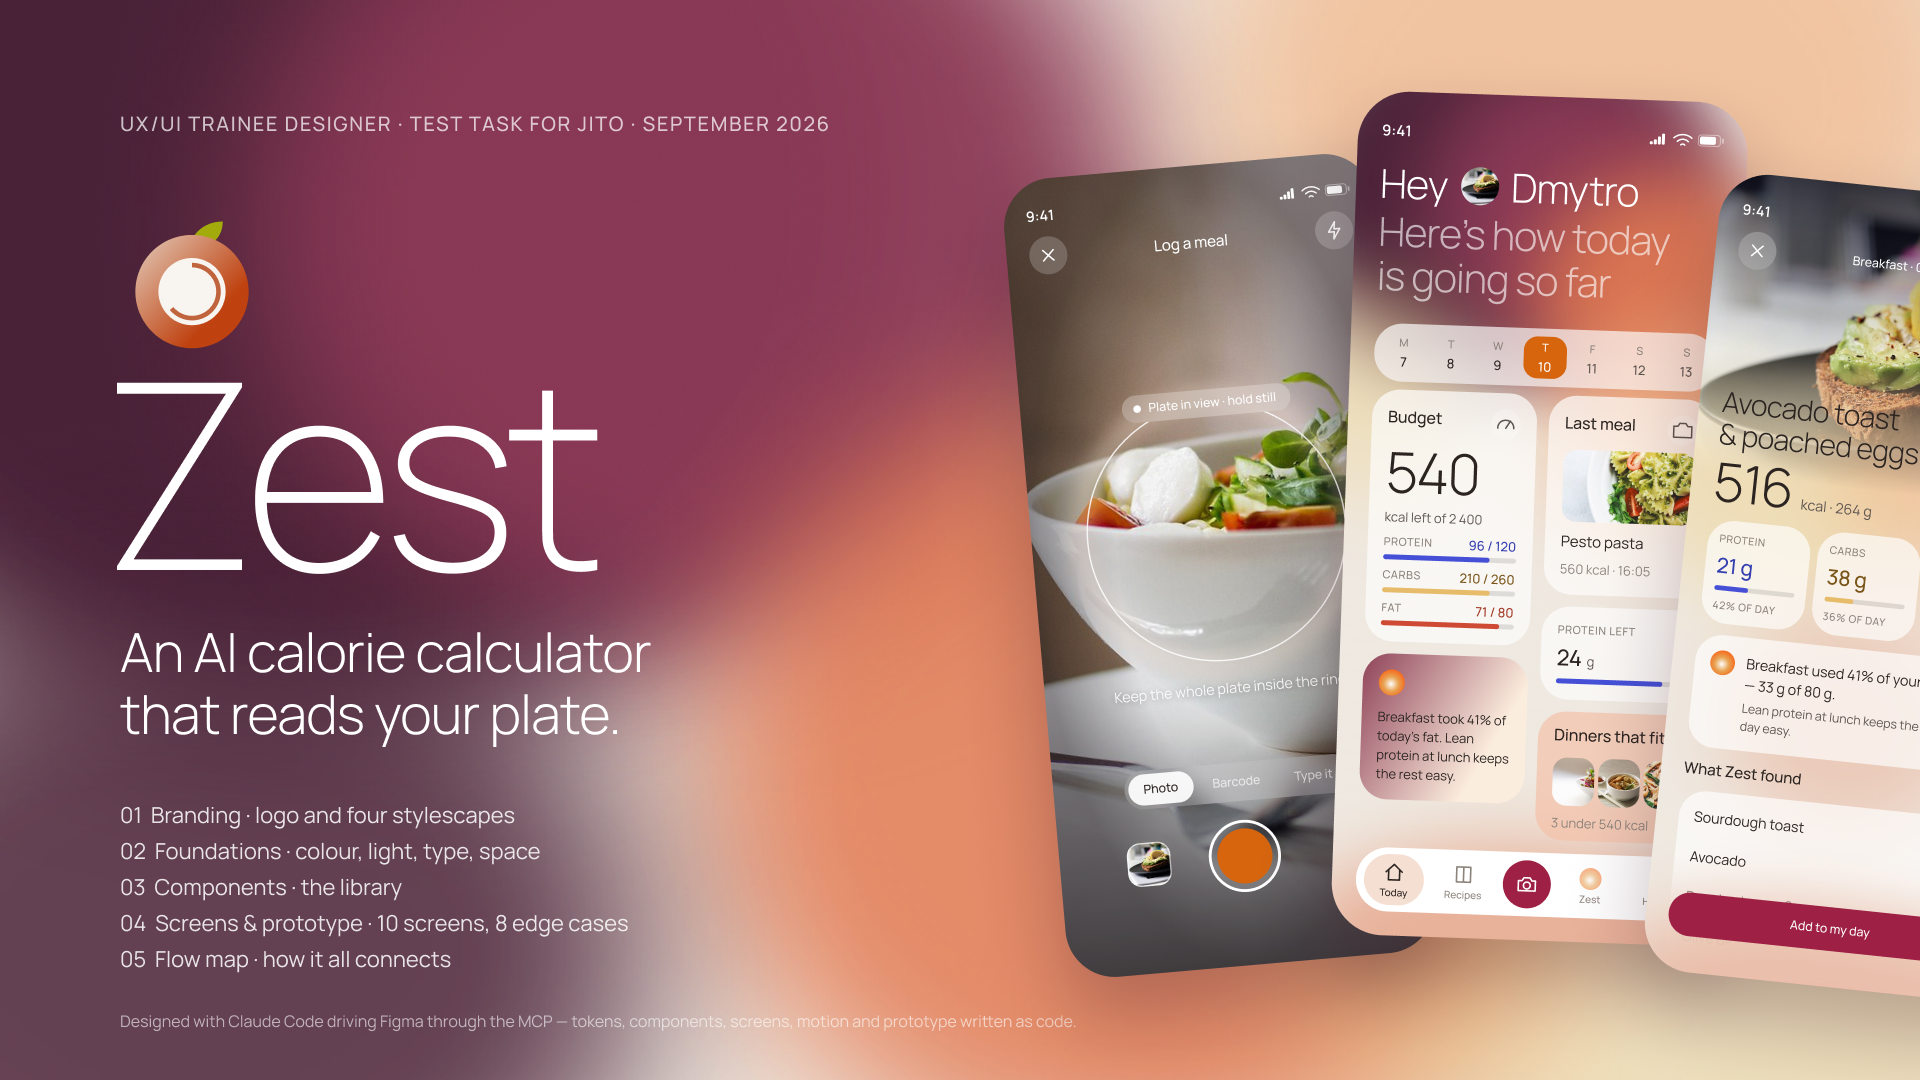
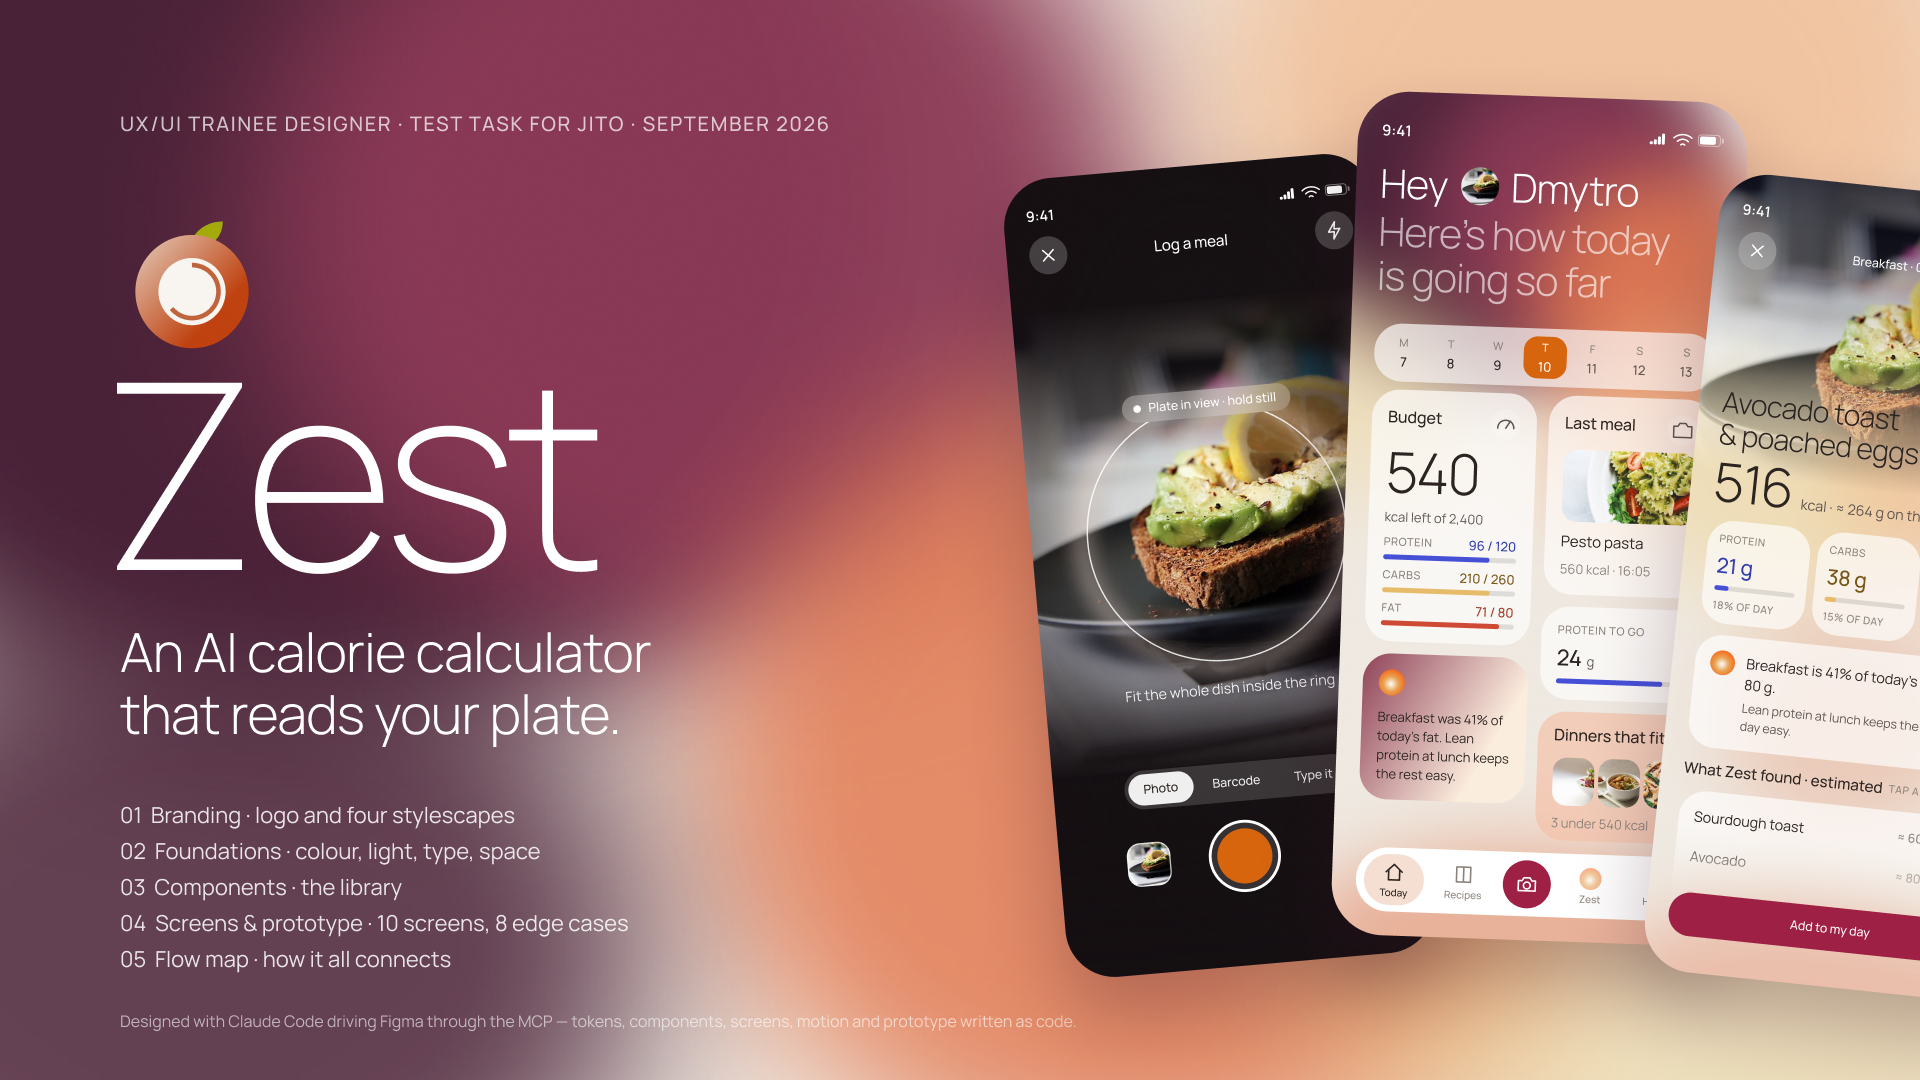
design: fix everything the review marked critical or high
One dish from Capture to Result; Result percentages computed from Today's targets
(protein 18 %, carbs 15 %, fat 41 %) with bars to match on every copy of the screen;
weights marked as estimates with kcal units; one way to edit a found item, opening the
correction sheet; Recipe detail states the fat trade-off and splits planning from
logging; a new Today state confirms the meal with Undo; opaque veils under sticky bars;
neutral wording; Welcome proof points no longer look like buttons; a camera-permission
edge case. docs/REVIEW-FIXES.md maps each point to its fix.

Claude-Session: https://claude.ai/code/session_01FDPnJdAVQFe1ai4QzDTio4

diff --git a/docs/REVIEW-FIXES.md b/docs/REVIEW-FIXES.md
@@ -1,0 +1,46 @@
+# Review — what was fixed
+
+A reviewer scored the nine static screens **7.8 / 10** ("strong Trainee — would invite to
+interview") and listed what must change before a client sees it. Everything on the
+"fix first" list and every high-severity point is addressed below.
+
+## Critical
+
+| Issue | Fix |
+|---|---|
+| Capture showed a salad, Analysing and Result an avocado toast | Capture now shows the same toast, framed so the whole dish sits inside the ring; the hint says "Fit the whole dish inside the ring". |
+| Result percentages disagreed with Today's targets (42 % and 36 %) | Recomputed from the same targets as Today — protein 21 / 120 g = **18 %**, carbs 38 / 260 g = **15 %**, fat 33 / 80 g = 41 % — and the bars redrawn to match, on the screen and in every copy of it (stylescapes, cover, flow map). |
+
+## High
+
+| Issue | Fix |
+|---|---|
+| Miso salmon hid that it takes fat past the target (71 + 14 = 85 g > 80 g) | *Why this fits you* now states the trade-off and a way out: "Trade-off: 14 g fat takes today 5 g past 80 g. Halve the sesame oil to stay inside." |
+| Recognised weights looked exact | Every detected weight is "≈"; the list is titled "What Zest found · estimated"; the total reads "≈ 264 g on the plate"; Analysing says "estimating each portion · about 2 s". |
+| Found list had no units for calories | "≈ 60 g · 160 kcal" on every line. |
+| Editing a found item wasn't shown; pencil and "tap to adjust" overlapped | The pencil is gone — the lines are the one way to edit. Tapping a line opens the correction sheet (E08), where the portion is changed and Zest learns from it. |
+| Sticky buttons covered content | The veils under the bottom buttons and the nav are opaque where the bar sits. |
+| Planning a meal and logging it were one action ("Cook this · logs 480 kcal") | Two actions: **Start cooking** and **Plan for dinner · 1 serving**. Ask Zest's chip is "Plan it for dinner". |
+| Nothing happened after *Add to my day* | New screen **S11 · Today — meal added**: "Added to breakfast · 516 kcal · 540 kcal left of 2,400 · Undo". |
+
+## Medium and low
+
+| Issue | Fix |
+|---|---|
+| Judgemental wording — *took*, *used … budget*, *owe* | "Breakfast was / is 41 % of today's fat", "38 g protein covers the 24 g still to go". |
+| Zest ignored the protein still to go | "That leaves 120 kcal and 10 g protein to go — a Greek yoghurt covers both." |
+| Welcome chips looked like buttons; "No verdicts" too abstract; login looked like a caption | A plain list with dots; "Every estimate is editable", "No food shaming"; "I already have an account · **Log in**" as a real link. |
+| Low-contrast text on light areas | Welcome's lower half, the Capture modes and the pending Analysing row moved to readable ink / 90 % white. |
+| Number formatting | "2,400", "1,860" everywhere. |
+| Calendar bars had no scale; two different "Today"s on History | "Bar length = share of the day's 2,400 kcal. A clay bar means the day went over."; the button is "Back to today", the badge stays a status. |
+| Recipes copy | "Every recipe fits both targets." |
+| Why single out protein on Today | The card is "Protein to go" — protein is the person's goal (120 g a day), which is also what Recipes ranks by. |
+| No permission / failure states | New edge case **E09 · Camera access is off**, alongside the eight others (no plate, two dishes, too dark, offline, unknown barcode, over budget, first day, correction). |
+
+## Not changed, on purpose
+
+- **The orange shutter vs the burgundy button.** Burgundy commits; ember is state and the
+  shutter — the capture button is where logging *starts*, not where it is committed. The
+  rule is written in the design system.
+- **Onboarding goals, allergies, recipe search, sorting, saved state on cards, cooking
+  mode, chat history** — real, but outside the two user stories in the brief.

diff --git a/README.md b/README.md
@@ -83,9 +83,9 @@ status bar at 0, navigation at 59, bottom bar 24 from the edge.
 |---|---|---|
 | 1 | Branding / stylescapes | Figma page `01 · Branding` — logo exploration, the main stylescape **Stylescape · Zest** (a dense collage built on one idea: the plate, the lens, the orb and the day are all circles), and four supporting 4000 × 1000 stylescapes: **Where it comes from** (the sources: peel, light, colours sampled from a real plate, photography), **Natural light** (the brand), **The plate is data** (the product), **No verdicts** (the voice). Exports in [`01-branding/`](01-branding/) |
 | 2 | Design system | Figma pages `02 · Foundations` and `03 · Components` |
-| 3 | Key screens & flows | Figma page `05 · Flow map` ([`03-screens/00-flow-map.png`](03-screens/00-flow-map.png)) and page `04 · Screens & Prototype` — 10 happy-path screens and 8 edge cases, ~60 prototype links, 9 flows (the full journey + one per edge case). Exports in [`03-screens/`](03-screens/) and [`04-edge-cases/`](04-edge-cases/) |
+| 3 | Key screens & flows | Figma page `05 · Flow map` ([`03-screens/00-flow-map.png`](03-screens/00-flow-map.png)) and page `04 · Screens & Prototype` — 11 happy-path screens and 9 edge cases, ~80 prototype links, 10 flows (the full journey + one per edge case). Exports in [`03-screens/`](03-screens/) and [`04-edge-cases/`](04-edge-cases/) |
 
-See [`links.md`](links.md) for the Figma link and the video walkthrough; the video script is in [`docs/VIDEO-SCRIPT.md`](docs/VIDEO-SCRIPT.md).
+See [`links.md`](links.md) for the Figma link and the video walkthrough, [`docs/REVIEW-FIXES.md`](docs/REVIEW-FIXES.md) for what changed after review; the video script is in [`docs/VIDEO-SCRIPT.md`](docs/VIDEO-SCRIPT.md).
 
 ### Screens
 
@@ -114,7 +114,7 @@ Today ──┬── week strip ───────▶ History
 ```
 
 The camera in the nav always opens Capture. Every burgundy button commits something and
-returns to Today, where it lands. Nothing on a screen duplicates a control that already
+returns to Today, where it lands — and Today says so ("Added to breakfast · 516 kcal · Undo"). Nothing on a screen duplicates a control that already
 lives in the navigation.
 
 ### Motion — only where the AI is working
@@ -139,9 +139,9 @@ the bead says it is waiting.
 
 ### Edge cases
 
-Eight screens for the moments a happy path never shows — no plate in the photo, two dishes
+Nine screens for the moments a happy path never shows — no plate in the photo, two dishes
 that look alike, a dark kitchen, no network, an unknown barcode, a day over budget, the
-first empty day, a corrected estimate. Each keeps the rules: fact first, no verdicts, one
+first empty day, a corrected estimate, the camera turned off. Each keeps the rules: fact first, no verdicts, one
 way forward, nothing lost. See [`04-edge-cases/`](04-edge-cases/).
 
 ### Design system
@@ -165,7 +165,7 @@ Three rules, and they are structural rather than stylistic:
 Rule 3 has a visible consequence: **there is no error red anywhere in the nutrition data.**
 Going over a target is stated as a fact in the brand's own clay tone.
 
-> "Breakfast used 41% of your fat budget — 33 g of 80 g.
+> "Breakfast is 41% of today's fat — 33 g of 80 g.
 > Lean protein at lunch keeps the rest of the day easy."
 
 ---

diff --git a/docs/VIDEO-SCRIPT.md b/docs/VIDEO-SCRIPT.md
@@ -21,6 +21,12 @@ explain the ideas, so each part ends on the decision behind it.
 > three marks; the fruit with an open ring won, because **the opening is the part of the
 > day that's left** — the logo shows state, not just identity.
 
+**Stylescape · Zest — the main one.**
+> This is the idea everything else starts from: a collage built on one thought — the
+> plate, the camera lens, the assistant's orb and the day's budget are all circles. Words
+> set on a circle around a plate, one number, the live Today screen, the icons, the voice,
+> a real plate sampled into the palette.
+
 **Stylescape 00 — Where it comes from.**
 > Four sources: the peel, out-of-focus light — after Milkinside's Natural OS — the colours
 > already on a plate, and daylight food photography. Here I sampled the palette straight
@@ -62,19 +68,24 @@ Components page.
 2. Shutter → **Analysing**.
    > A bead orbits the ring while it reads, and each item appears as it's found — you can
    > see the AI's work.
-3. Auto → **Result** → *Add to my day* → **Today**.
-   > First story: calories in a dish.
+3. Auto → **Result** → *Add to my day* → **Today** with *Added to breakfast · 516 kcal · Undo*.
+   > First story: calories in a dish. Every weight is marked as an estimate, every
+   > percentage is computed from the same targets as Today — protein 21 of 120 g is 18 %.
+   > Tap a line and you correct it; the meal lands on Today and Today says so.
 4. Camera → *Type it* → **Add a product** → stepper.
    > Second half of story one: a specific product.
 5. Today → *Dinners that fit* → **Recipes** → **Recipe detail** — *Why this fits you*.
-   > Story two: a recipe that suits me — ranked by what's left today, and it says why.
+   > Story two: a recipe that suits me — ranked by what's left today, and it says why —
+   > including the trade-off: this one takes fat 5 g past the target, so Zest says so and
+   > suggests halving the sesame oil. Planning dinner and logging it are separate actions.
 6. **Ask Zest**.
    > The assistant does the arithmetic, not the person.
 
 **Edge cases** (Present → the `Edge · …` flows, or scroll to the second row).
-> A happy path only shows what goes right. Eight screens for what doesn't: no plate in the
+> A happy path only shows what goes right. Nine screens for what doesn't: no plate in the
 > photo, two dishes that look alike — with how sure it is — a dark kitchen, no network,
-> an unknown barcode, a day over budget, the first empty day, and a corrected estimate.
+> an unknown barcode, a day over budget, the first empty day, a corrected estimate, and
+> the camera switched off.
 > Same rules everywhere: fact first, no verdicts, one way forward, nothing lost. My
 > favourite is the first day — the background is sampled from what you ate, so with
 > nothing eaten it's almost colourless.

diff --git a/04-edge-cases/README.md b/04-edge-cases/README.md
@@ -1,6 +1,6 @@
 # Edge cases
 
-A happy path shows what the product does when everything goes right. These eight screens
+A happy path shows what the product does when everything goes right. These nine screens
 show what it does when it doesn't: the camera is pointed at the wrong thing, the model is
 unsure, the network drops, the day goes over plan.
 
@@ -20,8 +20,9 @@ Every case keeps the product's rules:
 | `E03-too-dark.png` | The kitchen is too dark to read the plate | The ring goes dashed, the pill names the problem, and the flash button lights up in the state colour — the fix is the thing that glows. |
 | `E04-no-connection.png` | The network drops while the photo is being read | The orbit stops, the photo is queued on the phone, and Zest promises a notification when it's read. Back to Today, nothing lost. |
 | `E05-barcode-not-in-the-list.png` | A barcode that isn't in the database | Explains, then turns it into a contribution: photograph the label once and the next scan works for everyone. |
-| `E06-past-the-budget.png` | The day goes 120 kcal over plan | Stated as a fact in the clay tone — "120 kcal past 2 400 · 5 %" — and Zest adds "Tomorrow starts fresh." No red, no "you failed". |
+| `E06-past-the-budget.png` | The day goes 120 kcal over plan | Stated as a fact in the clay tone — "120 kcal past 2,400 · 5%" — and Zest adds "Tomorrow starts fresh." No red, no "you failed". |
 | `E07-first-day.png` | The first day, nothing logged yet | The bloom is sampled from what you ate, so with nothing eaten it is almost colourless. Every tile says where the first plate will land. |
+| `E09-camera-access-off.png` | The camera permission is off | Says why the camera is needed and that photos stay on the phone; one button turns it on, a link lets you type instead. |
 | `E08-correcting-an-estimate.png` | The estimate is wrong and the person fixes it | A stepper corrects the avocado from 80 g to 120 g, the meal total updates, and Zest learns: "I'll start from 120 g next time." |
 
 In the prototype each case is its own flow (`Edge · …` in Present mode), and each one

diff --git a/docs/PROGRESS.md b/docs/PROGRESS.md
@@ -18,7 +18,7 @@ conversation.
 
 ## Screens
 
-Ten screens remain. **Add (sheet), Saved and Profile were deleted on purpose — do not
+Eleven screens now (S11 · Today — meal added was added in round 4). **Add (sheet), Saved and Profile were deleted on purpose — do not
 bring them back.**
 
 S01 Welcome · S02 Today · S03 Capture · S04 Analysing · S05 Result · S06 Add a product ·
@@ -110,6 +110,12 @@ S07 Ask Zest · S08 Recipes · S09 Recipe detail · S10 History
 - **Yellows muted** at Sofia's request: `bloom/butter` `#EDD28E`, `macro/carbs` `#E6BC6A`.
 - **Secondary button fixed**: new token `action/secondary` (ink at 7 %) — binding a paint to
   a variable drops the paint's own opacity, so the alpha has to live in the variable.
+
+## Round 4 — review fixes (11 Sept)
+
+A reviewer scored the static screens 7.8 / 10. Every critical and high-severity point is
+fixed — see `docs/REVIEW-FIXES.md`. New: S11 · Today — meal added, E09 · Camera access is
+off, a main collage stylescape, motion on every edge case.
 
 ## Still to do
 

diff --git a/03-screens/README.md b/03-screens/README.md
@@ -1,6 +1,6 @@
 # Key screens
 
-Exported from Figma at 390 × 844 (iPhone 14/15). All ten are connected in the prototype;
+Exported from Figma at 390 × 844 (iPhone 14/15). All eleven are connected in the prototype;
 the start point is Welcome.
 
 | File | Screen | Kind | What it is for |
@@ -16,6 +16,7 @@ the start point is Welcome.
 | `08-recipes.png` | Recipes | place | Ranked by what is still left today |
 | `09-recipe-detail.png` | Recipe detail | detail | Carries **Why this fits you** — the second user story |
 | `10-history.png` | History | place | Month calendar and what was eaten on the chosen day |
+| `11-today-meal-added.png` | Today — meal added | place | What happens after *Add to my day*: the meal lands, the budget is restated, **Undo** |
 
 ## How the screens connect
 

diff --git a/links.md b/links.md
@@ -18,5 +18,5 @@ edge case (`Edge · …`).
 - `01 · Branding` — logo exploration, the main stylescape and four supporting stylescapes
 - `02 · Foundations` — colour, the bloom, type, spacing
 - `03 · Components` — the component library
-- `04 · Screens & Prototype` — 10 screens + 8 edge cases, connected; 9 flows in Present mode
+- `04 · Screens & Prototype` — 11 screens + 9 edge cases, connected; 10 flows in Present mode
 - `05 · Flow map` — how the screens connect
